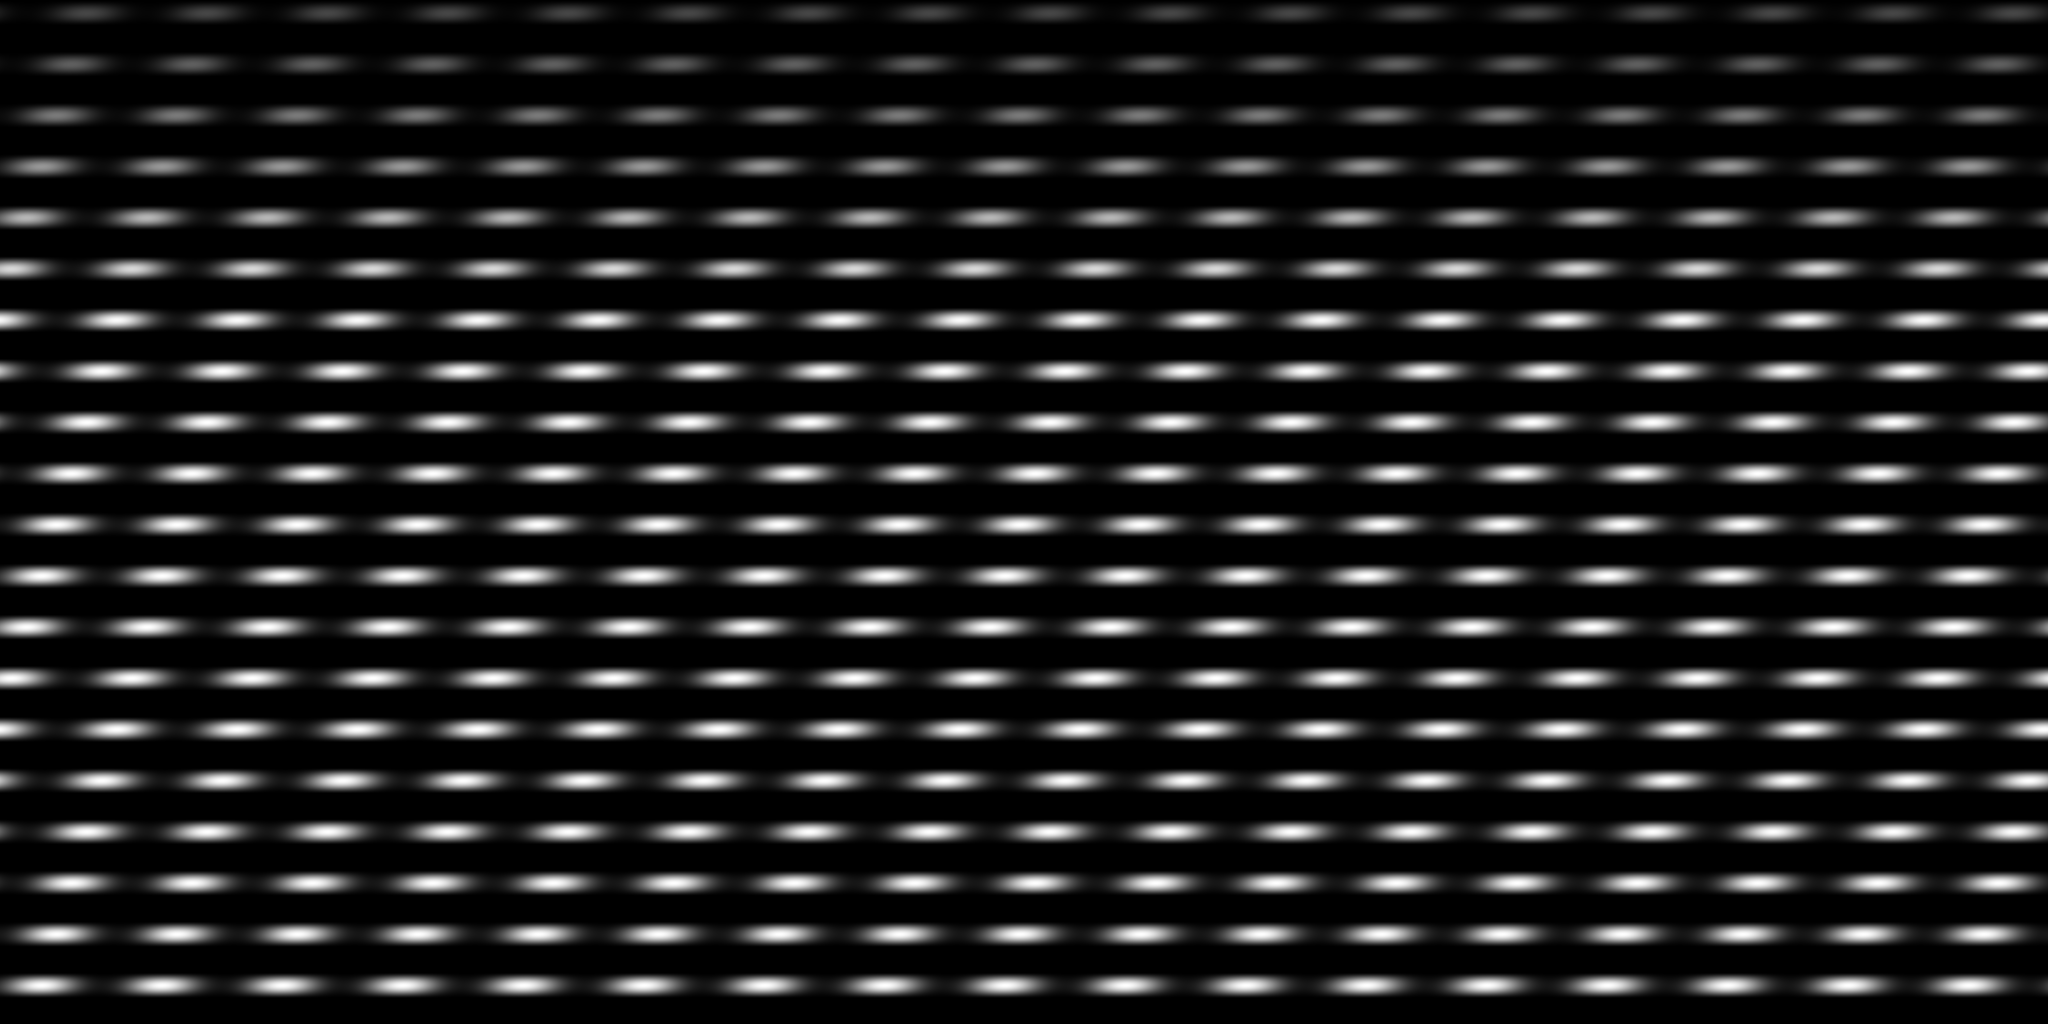
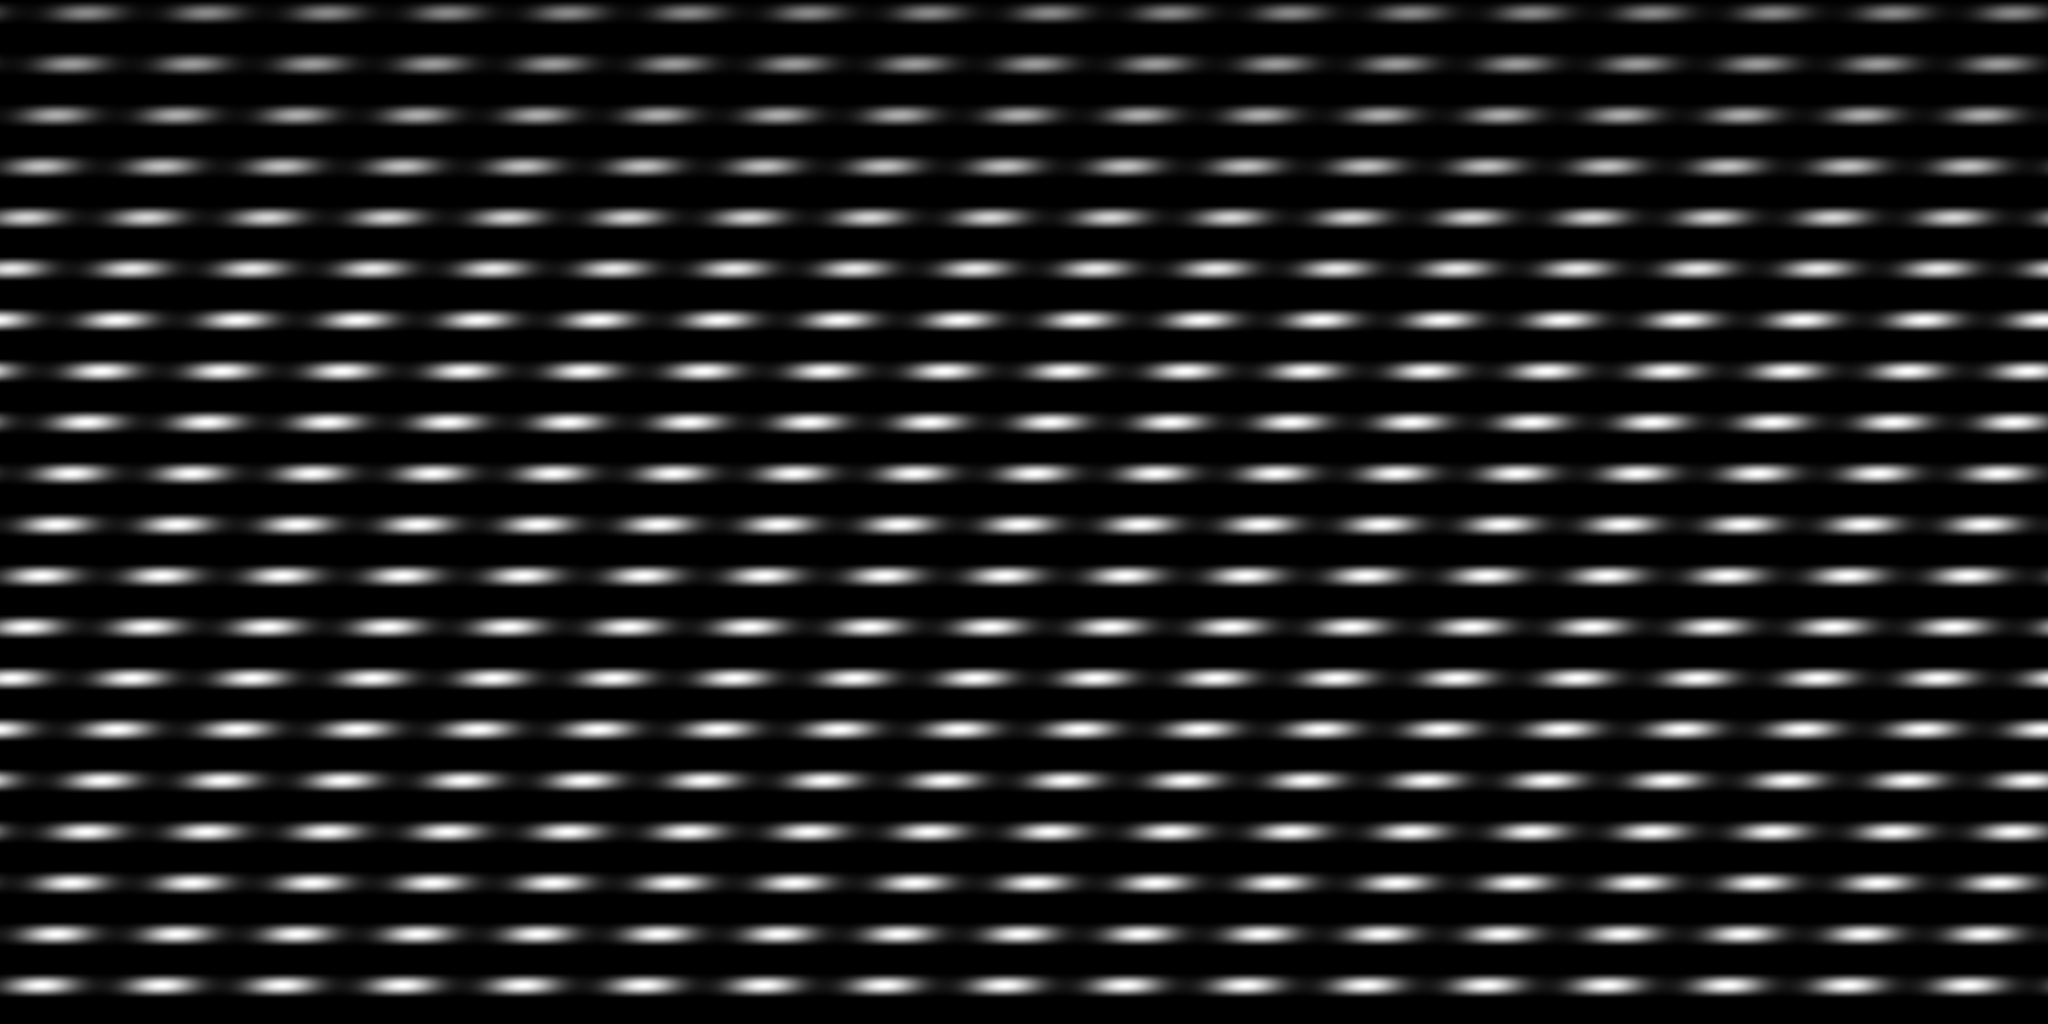
Fix the flat-centre bug: the facing fade was inverted and unnecessary
Root cause of every 'engine-turning only visible at the rim' render so
far, found by rendering LayerWeight's raw Facing output as grayscale:
it is near-ZERO dead-on to the camera and near-ONE at grazing angles —
the OPPOSITE of what the code assumed when it used Facing to gate the
bump/crest signal ('fade out at grazing angles'). In practice this
crushed the relief to flat exactly at screen-centre and let it through
only at the silhouette, regardless of bump strength, roughness, density
floor, or how many lights were thrown at it — all of which were tuned
against the wrong problem for the last two iterations.

The fade itself was also solving a problem that no longer exists: it
was written for the old planar-decal texture mapping, which smeared at
grazing angles. The current bake (equirect, camera-aligned front pole)
doesn't have that failure mode, so the fix is to remove the fade
entirely rather than invert it.

Also raised the ring-density floor (make_texture.py, 0.4->0.65) so the
area inside the stamp ring carries real texture too, not just the outer
shoulder.

Result: the guilloche now reads as an actual radial rosette across the
whole face, including the centre — the single biggest visual jump of
this loop so far. render.png updated.

diff --git a/art/genesis-3d/scene.py b/art/genesis-3d/scene.py
@@ -149,17 +149,20 @@ height = imgtex("height.png")
 crest = imgtex("crest.png")
 stamp = imgtex("stamp.png")
 
-# a gentle facing fade so grazing relief stays calm
-lw = nt.nodes.new("ShaderNodeLayerWeight"); lw.inputs['Blend'].default_value = 0.30
-face = M('POWER', None, 1.3)
-nt.links.new(lw.outputs['Facing'], face.inputs[0])
-hfade = M('MULTIPLY', M('SUBTRACT', height.outputs['Color'], 0.5), face)
-hfinal = M('ADD', hfade, 0.5)
+# No facing-based fade: that was solving silhouette-smear from the OLD
+# planar-decal approach, which the corrected spherical (equirect, camera-
+# aligned) mapping doesn't have. It was also WRONG when it was here —
+# verified empirically that LayerWeight's Facing output is near-0 dead-on
+# and near-1 at grazing angles (the opposite of what the code assumed),
+# so it was crushing the bump/crest signal exactly at centre-screen where
+# the relief needed to read, and letting it through only at the rim.
+# That's the actual explanation for every "washed out centre" render.
+hfinal = height.outputs['Color']
 
 bump = nt.nodes.new("ShaderNodeBump")
 bump.inputs['Strength'].default_value = 1.05
 bump.inputs['Distance'].default_value = 0.02
-nt.links.new(hfinal.outputs[0], bump.inputs['Height'])
+nt.links.new(hfinal, bump.inputs['Height'])
 nt.links.new(bump.outputs['Normal'], bsdf.inputs['Normal'])
 
 bsdf.inputs['Base Color'].default_value = AMBER
@@ -173,14 +176,13 @@ try:
     bsdf.inputs['Subsurface Scale'].default_value = 0.25
 except KeyError: pass
 
-crestf = M('MULTIPLY', crest.outputs['Color'], face)
 em_amber = nt.nodes.new("ShaderNodeEmission"); em_amber.inputs['Color'].default_value = BRIGHT
 em_amber.inputs['Strength'].default_value = 1.3
 em_stamp = nt.nodes.new("ShaderNodeEmission"); em_stamp.inputs['Color'].default_value = CREAM
 em_stamp.inputs['Strength'].default_value = 3.4
 mix_c = nt.nodes.new("ShaderNodeMixShader")
 mix_s = nt.nodes.new("ShaderNodeMixShader")
-nt.links.new(crestf.outputs[0], mix_c.inputs['Fac'])
+nt.links.new(crest.outputs['Color'], mix_c.inputs['Fac'])
 nt.links.new(bsdf.outputs['BSDF'], mix_c.inputs[1])
 nt.links.new(em_amber.outputs['Emission'], mix_c.inputs[2])
 nt.links.new(stamp.outputs['Color'], mix_s.inputs['Fac'])
@@ -243,10 +245,15 @@ def area(name, loc, energy, color, size, rot):
     L.rotation_euler = rot
     return L
 
-area("Key",  (-3.4, -3.6, 3.4), 220, AMBER, 2.1, (math.radians(50), 0, math.radians(-44)))
+area("Key",  (-3.4, -3.6, 3.4), 190, AMBER, 2.1, (math.radians(50), 0, math.radians(-44)))
 area("Rim",  ( 3.9, -1.4, 1.9), 150, LIME,   2.4, (math.radians(72), 0, math.radians(62)))
 area("Fill", ( 2.6, -3.2,-0.4), 80, DEEP,   4.5, (math.radians(96), 0, math.radians(40)))
 area("Top",  ( -0.6, -1.2, 4.6), 150, CREAM, 2.8, (math.radians(8), 0, 0))
+# Raking cross-light: small, close to the camera axis but offset laterally,
+# so it grazes the front face at a shallow angle instead of hitting it
+# face-on the way Key does. This is what should make the engine-turning
+# read across the well-lit centre, not just at the rim.
+area("Rake", (-1.1, -5.6, 1.55), 90, BRIGHT, 1.1, (math.radians(80), 0, math.radians(-14)))
 
 # ── a soft contact shadow, so the fruit sits rather than floats ────────────
 bpy.ops.mesh.primitive_plane_add(size=14, location=(0, 0, -0.86 * 1.10 * 0.995))

diff --git a/art/genesis-3d/make_texture.py b/art/genesis-3d/make_texture.py
@@ -32,7 +32,11 @@ col = np.linspace(-math.pi, math.pi, Ws)[None, :]  # longitude, wraps
 sinring = np.sin(row * FREQ)
 weave2 = 0.6 + 0.4 * np.sin(col * K + row * CURL)
 weave = sinring * weave2
-weave = weave * (0.4 + 0.6 * np.minimum(row, 1.0))
+# Floor raised from 0.4->0.65: LAT_ENTRY=0.86rad sits inside the
+# density ramp (which caps at row=1.0rad), so a low floor left even the
+# stamped area looking flat. Still deepens toward the skin, just less
+# drastically — the pole is no longer a bald patch.
+weave = weave * (0.65 + 0.35 * np.minimum(row, 1.0))
 height = 0.5 + 0.5 * weave
 
 crest = np.clip(weave, 0, None) ** 1.5
